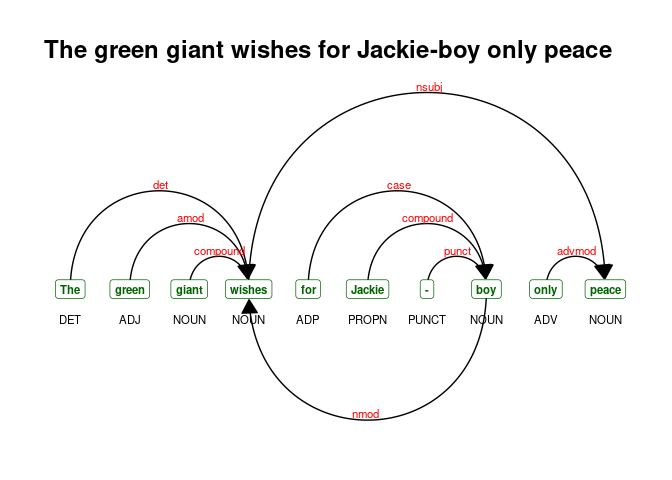
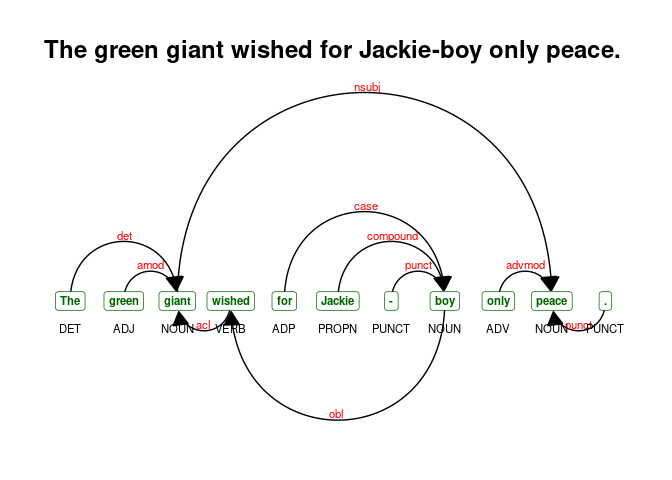
re

diff --git a/README.md b/README.md
@@ -43,14 +43,14 @@ meta <- quicknews::qnews_get_newsmeta('joe biden')
 news <- quicknews::qnews_extract_article(url = meta$link[1:20],
                                          cores = 7)
 
-strwrap(news$text[10], width = 60)[1:5]
+strwrap(news$text[2], width = 60)[1:5]
 ```
 
-    ## [1] "Joe Biden has no interest in your facts. Those are from" 
-    ## [2] "four or five days ago. Or, actually, two. In his"        
-    ## [3] "contentious interview with ABC’s George Stephanopoulos —"
-    ## [4] "his sentences jumbled together, alternately rambling and"
-    ## [5] "insisting with vociferous certainty things that were not"
+    ## [1] "Joe Biden has been attacked by conservative pundits for"  
+    ## [2] "appearing to stumble when naming the director of the"     
+    ## [3] "Federal Emergency Management Agency (FEMA) during a press"
+    ## [4] "briefing on Sunday. Biden appeared to hesitate when"      
+    ## [5] "addressing FEMA director Deanne Criswell during a press"
 
 ### PubMed abstracts
 
@@ -96,10 +96,14 @@ tweets <-  rtweet::search_tweets(q = '#Jan6',
 strwrap(tweets$text[1], width = 60)
 ```
 
-    ## [1] "@just_security @justinhendrix While we wait for @Jim_Jordan"
-    ## [2] "to be indicted for his role in instigating the #Jan6 attack"
-    ## [3] "against Congress, we can look forward to electing an"       
-    ## [4] "honorable person to his seat: @Sites4Congress"
+    ## [1] "Good. The far Right has behaved traitorously in labeling"  
+    ## [2] "Babbitt some kind of martyr. It's this officer and their"  
+    ## [3] "family who have made the real sacrifice. We thank them for"
+    ## [4] "their service and stand with them always."                 
+    ## [5] ""                                                          
+    ## [6] "#Jan6 #InformationWarfare #Trumpistan"                     
+    ## [7] ""                                                          
+    ## [8] "https://t.co/6JHcGTBfPb"
 
 ## Processing
 
@@ -197,9 +201,9 @@ head(vocab)
     ## 1: Foreign         2        1
     ## 2:  policy        24        6
     ## 3: experts         3        1
-    ## 4:     are        47       12
-    ## 5:  asking         2        2
-    ## 6:     how        12        5
+    ## 4:     are        56       14
+    ## 5:  asking         1        1
+    ## 6:     how        12        6
 
 ## Annotation
 
@@ -276,14 +280,14 @@ collocations0 %>%
   knitr::kable()
 ```
 
-| keyword                       | freq |    pmi |
-|:------------------------------|-----:|-------:|
-| Cillizza will delve a         |    3 |  5.834 |
-| weekly YouTube                |    3 | 11.947 |
-| trying to                     |    5 |  5.439 |
-| In each episode               |    3 | 11.944 |
-| deeper into the surreal world |    3 |  9.824 |
-| will delve a little           |    3 | 11.942 |
+| keyword           | freq |    pmi |
+|:------------------|-----:|-------:|
+| tax rate          |    3 |  8.423 |
+| his party         |    3 |  6.652 |
+| budget resolution |    3 | 10.539 |
+| Afghanistan exit  |    3 |  6.954 |
+| I think           |    4 |  6.138 |
+| Bernie Sanders    |    3 | 11.954 |
 
 ### Noun phrases
 
@@ -312,13 +316,13 @@ nps1 %>%
   knitr::kable()
 ```
 
-| keyword                        | pattern | ngram |   n |
-|:-------------------------------|:--------|------:|----:|
-| Durham_quick                   | NN      |     2 |   1 |
-| Olivia_Troye                   | NN      |     2 |   1 |
-| Rick_Flagg                     | NN      |     2 |   1 |
-| transit_point_for_the_refugees | NNPDN   |     5 |   1 |
-| Rep.\_Anna_Eshoo               | NNN     |     3 |   1 |
+| keyword                      | pattern | ngram |   n |
+|:-----------------------------|:--------|------:|----:|
+| unforgivable_failure         | AN      |     2 |   1 |
+| one_lives                    | AN      |     2 |   1 |
+| companywide_memo             | NN      |     2 |   1 |
+| square_foot_White_House_East | NNNNN   |     5 |   1 |
+| own_home_with_Summerfest     | ANPN    |     4 |   1 |
 
 ### Tokenizing multiword expressions
 
@@ -371,13 +375,13 @@ str(dtm)
 ```
 
     ## Formal class 'dgCMatrix' [package "Matrix"] with 6 slots
-    ##   ..@ i       : int [1:4641] 0 1 2 3 5 6 8 9 10 11 ...
-    ##   ..@ p       : int [1:2588] 0 14 33 43 50 69 80 82 84 85 ...
-    ##   ..@ Dim     : int [1:2] 19 2587
+    ##   ..@ i       : int [1:4641] 0 1 2 3 4 6 7 8 9 10 ...
+    ##   ..@ p       : int [1:2554] 0 15 34 43 51 70 81 82 83 84 ...
+    ##   ..@ Dim     : int [1:2] 19 2553
     ##   ..@ Dimnames:List of 2
     ##   .. ..$ : chr [1:19] "1" "10" "11" "12" ...
-    ##   .. ..$ : chr [1:2587] "-" "," ":" "?" ...
-    ##   ..@ x       : num [1:4641] 4 10 2 1 2 1 4 2 2 2 ...
+    ##   .. ..$ : chr [1:2553] "-" "," ":" "?" ...
+    ##   ..@ x       : num [1:4641] 4 10 1 2 1 2 2 1 2 2 ...
     ##   ..@ factors : list()
 
 ### Rebuilding text
@@ -389,11 +393,11 @@ new_text <- data.table::setDT(annotation0)[, list(text = paste(newness, collapse
 strwrap(new_text$text[5], width = 60)[1:5]
 ```
 
-    ## [1] "Nrplus member article J oe Biden have do many_things in he" 
-    ## [2] "statement about Afghanistan over the last_week , from he"   
-    ## [3] "speech last Monday to he brief_press_conference Sunday"     
-    ## [4] "afternoon . He' critique afghan leader , blame Donald Trump"
-    ## [5] ", deny he could have know what would happen , and paint"
+    ## [1] "not so many_weeks ago , a person who doesnot like I or this"
+    ## [2] "column write a email to my boss at the tv station in a"     
+    ## [3] "attempt to get I into trouble . he say , \" you know he' a" 
+    ## [4] "republican_right ? why be he allow to do the news ? \" now" 
+    ## [5] "we can dissect that short_message_in_several_ways but let I"
 
 ## doc2vec
 
@@ -425,17 +429,17 @@ predict(model.d2v, 'Biden',
         which = "word2word")[[1]]
 ```
 
-    ##    term1     term2 similarity rank
-    ## 1  Biden      week  0.9275486    1
-    ## 2  Biden     blame  0.9252347    2
-    ## 3  Biden   Sánchez  0.9113157    3
-    ## 4  Biden         )  0.9069669    4
-    ## 5  Biden      time  0.9028502    5
-    ## 6  Biden President  0.8952557    6
-    ## 7  Biden   Bongino  0.8931653    7
-    ## 8  Biden       Joe  0.8885962    8
-    ## 9  Biden       CNN  0.8841720    9
-    ## 10 Biden       Dan  0.8729199   10
+    ##    term1    term2 similarity rank
+    ## 1  Biden   Sunday  0.9243757    1
+    ## 2  Biden     call  0.9094791    2
+    ## 3  Biden  stumble  0.9069743    3
+    ## 4  Biden director  0.9023297    4
+    ## 5  Biden Criswell  0.8947548    5
+    ## 6  Biden     FEMA  0.8937930    6
+    ## 7  Biden   during  0.8849266    7
+    ## 8  Biden      she  0.8835037    8
+    ## 9  Biden    speak  0.8802032    9
+    ## 10 Biden  Sánchez  0.8786803   10
 
 ## Search
 
@@ -453,14 +457,14 @@ egs <- PubmedMTK::pmtk_locate_term(text = tokens,
 egs %>% head() %>% knitr::kable()
 ```
 
-| doc_id | lhs                                                              | instance  | rhs                                                                 |
-|:-------|:-----------------------------------------------------------------|:----------|:--------------------------------------------------------------------|
-| 1.2    | to visit him in Kabul was the then-senator from Delaware ,       | Joe Biden | .                                                                   |
-| 1.6    | " What have they done with the real                              | Joe Biden | ?                                                                   |
-| 1.68   | " I think                                                        | Joe Biden | sees Afghanistan as a distraction from the defining fight that he’s |
-| 2.1    | ( CNN )                                                          | Joe Biden | believes that you don’t care about Afghanistan .                    |
-| 3.1    | op-ed in one of Britain’s largest newspapers has taken aim at    | Joe Biden | , calling the 78-year-old president " exhausted " and " too         |
-| 6.16   | this because I’m about to say something nice about our president | Joe Biden | .                                                                   |
+| doc_id | lhs                                                        | instance  | rhs                                                                     |
+|:-------|:-----------------------------------------------------------|:----------|:------------------------------------------------------------------------|
+| 1.2    | to visit him in Kabul was the then-senator from Delaware , | Joe Biden | .                                                                       |
+| 1.6    | " What have they done with the real                        | Joe Biden | ?                                                                       |
+| 1.68   | " I think                                                  | Joe Biden | sees Afghanistan as a distraction from the defining fight that he’s     |
+| 2.1    | NA                                                         | Joe Biden | has been attacked by conservative pundits for appearing to stumble when |
+| 2.8    | "                                                          | Joe Biden | appears to struggle to remember his FEMA administrator’s name , "       |
+| 2.10   | " Did                                                      | Joe Biden | just forget his FEMA director’s name ? "                                |
 
 ### Sentences containing X
 
@@ -488,7 +492,7 @@ jrb_sentences0 %>% head() %>% knitr::kable()
 ### Visualizing dependencies
 
 ``` r
-sentence <- "The green giant wishes for Jackie-boy only peace"
+sentence <- "The green giant wished for Jackie-boy only peace."
 sent_depend <- udpipe::udpipe(udmodel, x = sentence)
 
 textplot::textplot_dependencyparser(sent_depend, 
